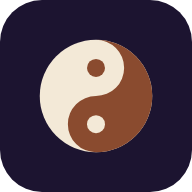
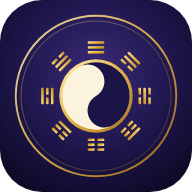
새 앱 로고: 황금 태극과 팔괘
- 남보라 배경에 금빛 테두리·팔괘·태극
- 안드로이드 8 이상용 적응형 아이콘(배경이 기기 모양에 꽉 차게) 추가
- 웹앱 아이콘(icon.svg, 192/512 png)도 같은 로고로

Claude-Session: https://claude.ai/code/session_01TujzucCUt93YQzt54Rw7Rw

diff --git a/sw.js b/sw.js
@@ -1,5 +1,5 @@
 // 오프라인 캐시 — 파일을 바꾸면 VERSION을 올려 주세요
-const VERSION = 'saju-v13';
+const VERSION = 'saju-v14';
 const ASSETS = [
   './',
   'index.html',
